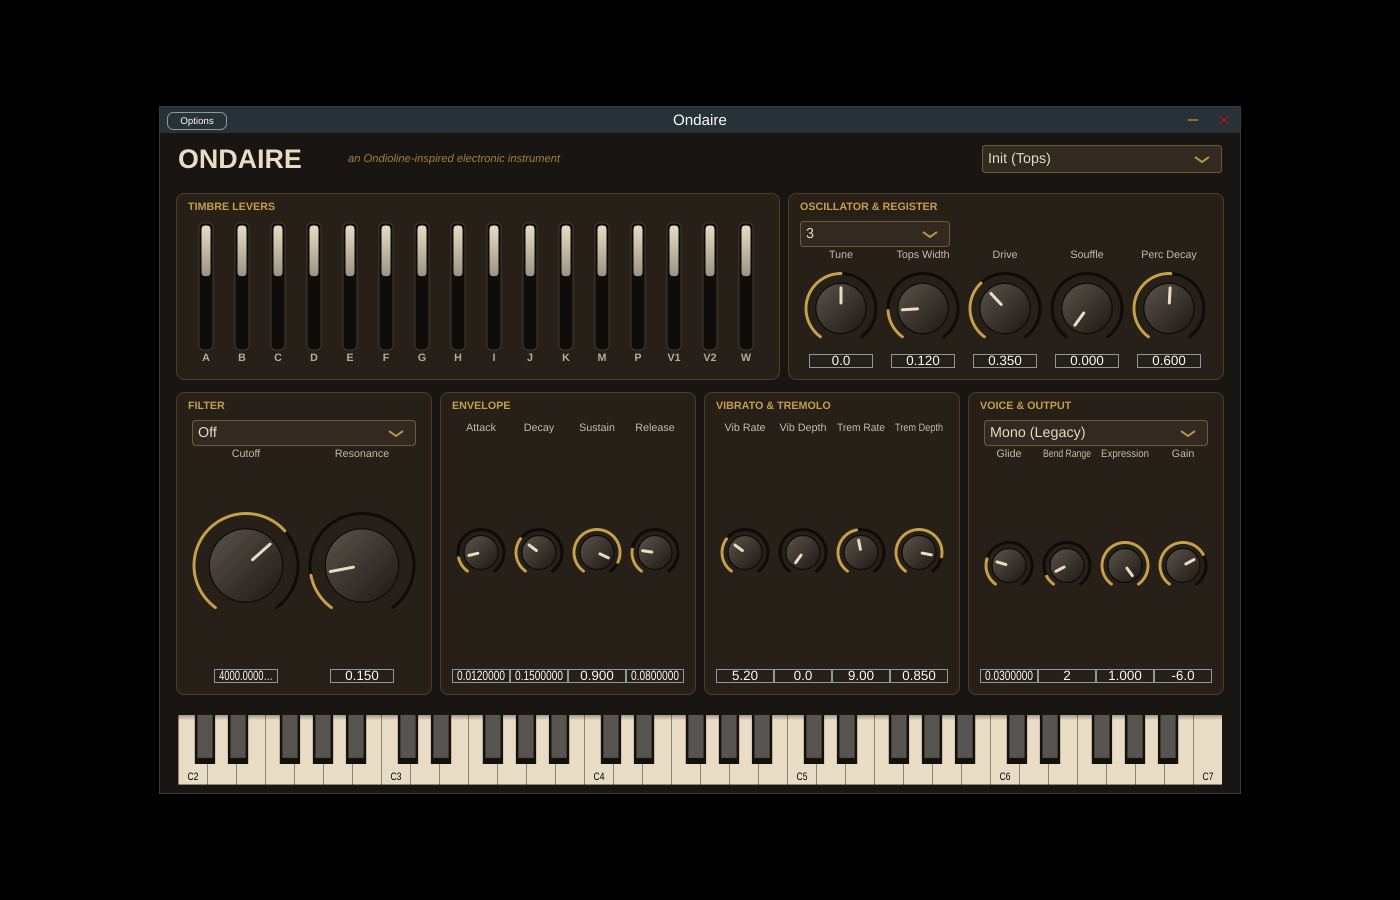
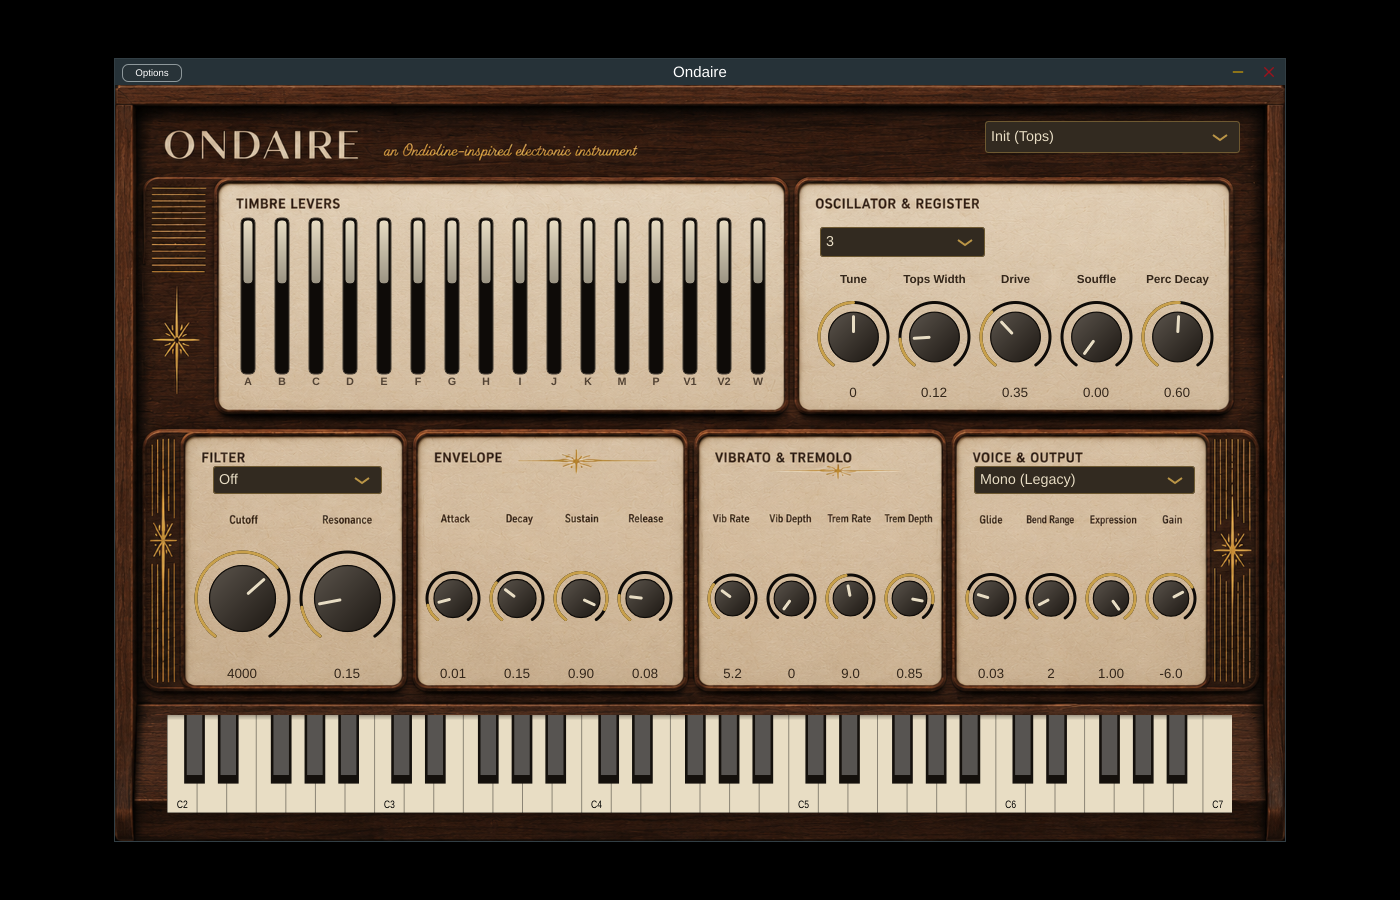
Add cabinet background artwork and coarsen knob value steps
- Embed the walnut-and-cream cabinet artwork as binary data and draw
  it as the editor background; controls are positioned in the
  artwork's native 1560x1008 pixel space and scaled to the window
- Hide per-knob labels where the artwork bakes them in (filter,
  envelope, vibrato/tremolo, voice/output panels); switch labels,
  lever letters and value readouts to dark ink for the cream panels
- Coarsen every continuous parameter's step so dragging lands on
  clean values: 1 ct tune, 0.01 unit knobs, 10 Hz cutoff, 10 ms
  envelope times, 0.1 Hz LFO rates, 0.5 dB gain

Claude-Session: https://claude.ai/code/session_0124hqG1meTYyUSfvjZxQbEC

diff --git a/Source/PluginEditor.cpp b/Source/PluginEditor.cpp
@@ -1,5 +1,6 @@
 #include "PluginEditor.h"
 #include "OndairePresets.h"
+#include "OndaireAssets.h"
 
 namespace p = ondaire::param;
 
@@ -10,13 +11,16 @@ const juce::Colour OndaireLookAndFeel::panelLight { 0xff322a20 };
 const juce::Colour OndaireLookAndFeel::cream      { 0xffe8ddc4 };
 const juce::Colour OndaireLookAndFeel::brass      { 0xffc8a04b };
 const juce::Colour OndaireLookAndFeel::accent     { 0xffb5502e };
+const juce::Colour OndaireLookAndFeel::ink        { 0xff33261a };
 
 OndaireLookAndFeel::OndaireLookAndFeel()
 {
     setColour (juce::ResizableWindow::backgroundColourId, background);
-    setColour (juce::Slider::textBoxTextColourId, cream.withAlpha (0.8f));
+    setColour (juce::Slider::textBoxTextColourId, ink.withAlpha (0.85f));
     setColour (juce::Slider::textBoxOutlineColourId, juce::Colours::transparentBlack);
-    setColour (juce::Label::textColourId, cream);
+    setColour (juce::Slider::textBoxBackgroundColourId, juce::Colours::transparentBlack);
+    setColour (juce::Slider::textBoxHighlightColourId, brass.withAlpha (0.4f));
+    setColour (juce::Label::textColourId, ink);
     setColour (juce::ComboBox::backgroundColourId, panelLight);
     setColour (juce::ComboBox::textColourId, cream);
     setColour (juce::ComboBox::outlineColourId, brass.withAlpha (0.4f));
@@ -104,7 +108,7 @@ void OndaireLookAndFeel::drawToggleButton (juce::Graphics& g, juce::ToggleButton
     g.setColour (juce::Colour (0xff0e0b08));
     g.drawRoundedRectangle (handle, 4.0f, 1.0f);
 
-    g.setColour (on ? brass : cream.withAlpha (0.75f));
+    g.setColour (on ? brass.darker (0.35f) : ink.withAlpha (0.8f));
     g.setFont (juce::Font (juce::FontOptions (12.0f, juce::Font::bold)));
     g.drawText (b.getButtonText(), labelArea, juce::Justification::centred);
 }
@@ -173,9 +177,19 @@ OndaireAudioProcessorEditor::OndaireAudioProcessorEditor (OndaireAudioProcessor&
     keyboard.setOctaveForMiddleC (4);
     addAndMakeVisible (keyboard);
 
+    backgroundImage = juce::ImageCache::getFromMemory (OndaireAssets::background_png,
+                                                       OndaireAssets::background_pngSize);
+
+    // The artwork bakes in the knob labels of the four lower panels; hide the
+    // corresponding component labels so they are not drawn twice.
+    for (auto* k : { &cutoff, &resonance, &attack, &decay, &sustain, &release,
+                     &vibRate, &vibDepth, &tremRate, &tremDepth,
+                     &glide, &pbRange, &expression, &gain })
+        k->label.setVisible (false);
+
     processor.addListener (this);
 
-    setSize (1080, 660);
+    setSize (1170, 756);   // 3/4 of the artwork's native 1560 x 1008
 }
 
 OndaireAudioProcessorEditor::~OndaireAudioProcessorEditor()
@@ -210,13 +224,16 @@ void OndaireAudioProcessorEditor::audioProcessorChanged (juce::AudioProcessor*,
 void OndaireAudioProcessorEditor::addKnob (Knob& k, const char* paramID, const juce::String& text)
 {
     k.slider.setSliderStyle (juce::Slider::RotaryHorizontalVerticalDrag);
-    k.slider.setTextBoxStyle (juce::Slider::TextBoxBelow, false, 64, 14);
+    k.slider.setTextBoxStyle (juce::Slider::TextBoxBelow, false, 64, 15);
+    k.slider.setColour (juce::Slider::textBoxTextColourId, OndaireLookAndFeel::ink);
+    k.slider.setColour (juce::Slider::textBoxOutlineColourId, juce::Colours::transparentBlack);
+    k.slider.setColour (juce::Slider::textBoxBackgroundColourId, juce::Colours::transparentBlack);
     addAndMakeVisible (k.slider);
 
     k.label.setText (text, juce::dontSendNotification);
     k.label.setJustificationType (juce::Justification::centred);
-    k.label.setFont (juce::Font (juce::FontOptions (12.0f)));
-    k.label.setColour (juce::Label::textColourId, OndaireLookAndFeel::cream.withAlpha (0.85f));
+    k.label.setFont (juce::Font (juce::FontOptions (13.0f, juce::Font::bold)));
+    k.label.setColour (juce::Label::textColourId, OndaireLookAndFeel::ink);
     addAndMakeVisible (k.label);
 
     k.attachment = std::make_unique<juce::AudioProcessorValueTreeState::SliderAttachment> (
@@ -250,107 +267,65 @@ void OndaireAudioProcessorEditor::addCombo (juce::ComboBox& box,
 //==============================================================================
 void OndaireAudioProcessorEditor::paint (juce::Graphics& g)
 {
-    g.fillAll (OndaireLookAndFeel::background);
-
-    auto drawSection = [&g] (juce::Rectangle<int> r, const juce::String& title)
-    {
-        if (r.isEmpty())
-            return;
-        auto rf = r.toFloat();
-        g.setColour (OndaireLookAndFeel::panel);
-        g.fillRoundedRectangle (rf, 8.0f);
-        g.setColour (OndaireLookAndFeel::brass.withAlpha (0.25f));
-        g.drawRoundedRectangle (rf.reduced (0.5f), 8.0f, 1.0f);
-        g.setColour (OndaireLookAndFeel::brass);
-        g.setFont (juce::Font (juce::FontOptions (12.0f, juce::Font::bold)));
-        g.drawText (title.toUpperCase(), r.reduced (12, 6).removeFromTop (16),
-                    juce::Justification::centredLeft);
-    };
-
-    drawSection (leverPanel,  "Timbre Levers");
-    drawSection (oscPanel,    "Oscillator & Register");
-    drawSection (filterPanel, "Filter");
-    drawSection (envPanel,    "Envelope");
-    drawSection (modPanel,    "Vibrato & Tremolo");
-    drawSection (outPanel,    "Voice & Output");
-
-    // Wordmark
-    auto header = getLocalBounds().removeFromTop (52).reduced (18, 6);
-    g.setColour (OndaireLookAndFeel::cream);
-    g.setFont (juce::Font (juce::FontOptions (30.0f, juce::Font::bold)));
-    g.drawText ("ONDAIRE", header, juce::Justification::centredLeft);
-    g.setColour (OndaireLookAndFeel::brass.withAlpha (0.8f));
-    g.setFont (juce::Font (juce::FontOptions (12.5f, juce::Font::italic)));
-    g.drawText ("an Ondioline-inspired electronic instrument",
-                header.withTrimmedLeft (170), juce::Justification::centredLeft);
+    if (backgroundImage.isValid())
+        g.drawImage (backgroundImage, getLocalBounds().toFloat());
+    else
+        g.fillAll (OndaireLookAndFeel::background);
 }
 
 void OndaireAudioProcessorEditor::resized()
 {
-    auto area = getLocalBounds();
-
-    auto header = area.removeFromTop (52).reduced (18, 12);
-    presetBox.setBounds (header.removeFromRight (240));
-
-    keyboard.setBounds (area.removeFromBottom (86).reduced (18, 8));
-    keyboard.setKeyWidth ((float) keyboard.getWidth() / 36.0f);
-
-    area.reduce (12, 4);
-    const int gap = 8;
-
-    // Top row: lever bank + oscillator section.
-    auto topRow = area.removeFromTop (juce::jmax (150, area.getHeight() * 38 / 100));
-    leverPanel = topRow.removeFromLeft (topRow.getWidth() * 58 / 100).reduced (gap / 2);
-    oscPanel   = topRow.reduced (gap / 2);
-
-    auto placeLevers = [this] (juce::Rectangle<int> r)
+    // Positions in the artwork's native 1560 x 1008 pixel space.
+    const float sx = (float) getWidth()  / 1560.0f;
+    const float sy = (float) getHeight() / 1008.0f;
+    auto art = [sx, sy] (float x, float y, float w, float h)
     {
-        r = r.reduced (12).withTrimmedTop (16);
+        return juce::Rectangle<float> (x * sx, y * sy, w * sx, h * sy).toNearestInt();
+    };
+
+    presetBox.setBounds (art (1160.0f, 48.0f, 340.0f, 42.0f));
+
+    // Timbre lever bank panel.
+    {
+        auto r = art (155.0f, 175.0f, 730.0f, 235.0f);
         const int w = r.getWidth() / numLevers;
         for (auto& l : levers)
             l.button.setBounds (r.removeFromLeft (w));
-    };
-    placeLevers (leverPanel);
+    }
 
-    // Expects a rectangle already trimmed of its section padding/title.
-    auto placeKnobs = [] (juce::Rectangle<int> r, std::initializer_list<Knob*> knobs)
+    auto placeKnobs = [] (juce::Rectangle<int> r, std::initializer_list<Knob*> knobs,
+                          bool withLabels)
     {
         const int w = r.getWidth() / (int) knobs.size();
         for (auto* k : knobs)
         {
             auto cell = r.removeFromLeft (w);
-            k->label.setBounds (cell.removeFromTop (16));
+            if (withLabels)
+                k->label.setBounds (cell.removeFromTop (20));
             k->slider.setBounds (cell);
         }
     };
 
-    {
-        auto r = oscPanel.reduced (12).withTrimmedTop (16);
-        auto comboRow = r.removeFromTop (26);
-        registerBox.setBounds (comboRow.removeFromLeft (juce::jmin (150, comboRow.getWidth())));
-        placeKnobs (r, { &tune, &topsWidth, &drive, &souffle, &percDecay });
-    }
+    // Oscillator & register panel (artwork panel is blank; we draw labels).
+    registerBox.setBounds (art (940.0f, 190.0f, 220.0f, 40.0f));
+    placeKnobs (art (930.0f, 245.0f, 545.0f, 175.0f),
+                { &tune, &topsWidth, &drive, &souffle, &percDecay }, true);
 
-    // Bottom row: filter / envelope / modulation / voice+output.
-    auto bottomRow = area.reduced (0, gap / 2);
-    const int colW = bottomRow.getWidth() / 4;
-    filterPanel = bottomRow.removeFromLeft (colW).reduced (gap / 2);
-    envPanel    = bottomRow.removeFromLeft (colW).reduced (gap / 2);
-    modPanel    = bottomRow.removeFromLeft (colW).reduced (gap / 2);
-    outPanel    = bottomRow.reduced (gap / 2);
+    // Lower panels: the artwork provides the knob labels at y ~578, so the
+    // sliders sit directly beneath them.
+    filterBox.setBounds (art (130.0f, 508.0f, 225.0f, 38.0f));
+    placeKnobs (art (100.0f, 595.0f, 280.0f, 200.0f), { &cutoff, &resonance }, false);
 
-    {
-        auto r = filterPanel.reduced (12).withTrimmedTop (16);
-        filterBox.setBounds (r.removeFromTop (26).reduced (4, 0));
-        placeKnobs (r, { &cutoff, &resonance });
-    }
-    placeKnobs (envPanel.reduced (12).withTrimmedTop (16),
-                { &attack, &decay, &sustain, &release });
-    placeKnobs (modPanel.reduced (12).withTrimmedTop (16),
-                { &vibRate, &vibDepth, &tremRate, &tremDepth });
-    {
-        auto r = outPanel.reduced (12).withTrimmedTop (16);
-        modeBox.setBounds (r.removeFromTop (26).reduced (4, 0));
-        placeKnobs (r, { &glide, &pbRange, &expression, &gain });
-    }
+    placeKnobs (art (408.0f, 595.0f, 345.0f, 200.0f),
+                { &attack, &decay, &sustain, &release }, false);
+
+    placeKnobs (art (784.0f, 595.0f, 315.0f, 200.0f),
+                { &vibRate, &vibDepth, &tremRate, &tremDepth }, false);
+
+    modeBox.setBounds (art (1145.0f, 508.0f, 295.0f, 38.0f));
+    placeKnobs (art (1128.0f, 595.0f, 320.0f, 200.0f),
+                { &glide, &pbRange, &expression, &gain }, false);
+
+    keyboard.setBounds (art (70.0f, 840.0f, 1420.0f, 130.0f));
+    keyboard.setKeyWidth ((float) keyboard.getWidth() / 36.0f);
 }

diff --git a/Source/OndaireParams.h b/Source/OndaireParams.h
@@ -89,12 +89,12 @@ namespace ondaire::param
 
         p.push_back (std::make_unique<AudioParameterFloat> (
             ParameterID { tune, 1 }, "Tune",
-            NormalisableRange<float> (-100.0f, 100.0f, 0.1f), 0.0f,
+            NormalisableRange<float> (-100.0f, 100.0f, 1.0f), 0.0f,
             AudioParameterFloatAttributes().withLabel ("ct")));
 
         p.push_back (std::make_unique<AudioParameterFloat> (
             ParameterID { pulseWidth, 1 }, "Tops Width",
-            NormalisableRange<float> (0.05f, 0.45f, 0.001f), 0.12f));
+            NormalisableRange<float> (0.05f, 0.45f, 0.01f), 0.12f));
 
         boolParam (leverA,  "Lever A (No Drive)",       false);
         boolParam (leverB,  "Lever B (Square Wave)",    false);
@@ -115,16 +115,16 @@ namespace ondaire::param
 
         p.push_back (std::make_unique<AudioParameterFloat> (
             ParameterID { percDecay, 1 }, "Percussion Decay",
-            NormalisableRange<float> (0.05f, 3.0f, 0.001f, 0.4f), 0.6f,
+            NormalisableRange<float> (0.05f, 3.0f, 0.05f, 0.4f), 0.6f,
             AudioParameterFloatAttributes().withLabel ("s")));
 
         p.push_back (std::make_unique<AudioParameterFloat> (
             ParameterID { drive, 1 }, "Pentode Drive",
-            NormalisableRange<float> (0.0f, 1.0f, 0.001f), 0.35f));
+            NormalisableRange<float> (0.0f, 1.0f, 0.01f), 0.35f));
 
         p.push_back (std::make_unique<AudioParameterFloat> (
             ParameterID { noise, 1 }, "Souffle (Breath)",
-            NormalisableRange<float> (0.0f, 1.0f, 0.001f), 0.0f));
+            NormalisableRange<float> (0.0f, 1.0f, 0.01f), 0.0f));
 
         // Modern filter --------------------------------------------------------
         p.push_back (std::make_unique<AudioParameterChoice> (
@@ -133,31 +133,31 @@ namespace ondaire::param
 
         p.push_back (std::make_unique<AudioParameterFloat> (
             ParameterID { cutoff, 1 }, "Filter Cutoff",
-            NormalisableRange<float> (20.0f, 20000.0f, 1.0f, 0.25f), 4000.0f,
+            NormalisableRange<float> (20.0f, 20000.0f, 10.0f, 0.25f), 4000.0f,
             AudioParameterFloatAttributes().withLabel ("Hz")));
 
         p.push_back (std::make_unique<AudioParameterFloat> (
             ParameterID { resonance, 1 }, "Filter Resonance",
-            NormalisableRange<float> (0.0f, 1.0f, 0.001f), 0.15f));
+            NormalisableRange<float> (0.0f, 1.0f, 0.01f), 0.15f));
 
         // Envelope ---------------------------------------------------------
         p.push_back (std::make_unique<AudioParameterFloat> (
             ParameterID { attack, 1 }, "Attack",
-            NormalisableRange<float> (0.001f, 3.0f, 0.001f, 0.35f), 0.012f,
+            NormalisableRange<float> (0.001f, 3.0f, 0.01f, 0.35f), 0.012f,
             AudioParameterFloatAttributes().withLabel ("s")));
 
         p.push_back (std::make_unique<AudioParameterFloat> (
             ParameterID { decay, 1 }, "Decay",
-            NormalisableRange<float> (0.001f, 4.0f, 0.001f, 0.35f), 0.15f,
+            NormalisableRange<float> (0.001f, 4.0f, 0.01f, 0.35f), 0.15f,
             AudioParameterFloatAttributes().withLabel ("s")));
 
         p.push_back (std::make_unique<AudioParameterFloat> (
             ParameterID { sustain, 1 }, "Sustain",
-            NormalisableRange<float> (0.0f, 1.0f, 0.001f), 0.9f));
+            NormalisableRange<float> (0.0f, 1.0f, 0.01f), 0.9f));
 
         p.push_back (std::make_unique<AudioParameterFloat> (
             ParameterID { release, 1 }, "Release",
-            NormalisableRange<float> (0.005f, 6.0f, 0.001f, 0.35f), 0.08f,
+            NormalisableRange<float> (0.005f, 6.0f, 0.01f, 0.35f), 0.08f,
             AudioParameterFloatAttributes().withLabel ("s")));
 
         // Voicing ------------------------------------------------------------
@@ -167,7 +167,7 @@ namespace ondaire::param
 
         p.push_back (std::make_unique<AudioParameterFloat> (
             ParameterID { glide, 1 }, "Glide",
-            NormalisableRange<float> (0.0f, 1.0f, 0.001f, 0.4f), 0.03f,
+            NormalisableRange<float> (0.0f, 1.0f, 0.01f, 0.4f), 0.03f,
             AudioParameterFloatAttributes().withLabel ("s")));
 
         p.push_back (std::make_unique<AudioParameterInt> (
@@ -177,31 +177,31 @@ namespace ondaire::param
         // Modulation --------------------------------------------------------
         p.push_back (std::make_unique<AudioParameterFloat> (
             ParameterID { vibRate, 1 }, "Vibrato Rate",
-            NormalisableRange<float> (3.0f, 10.0f, 0.01f), 5.2f,
+            NormalisableRange<float> (3.0f, 10.0f, 0.1f), 5.2f,
             AudioParameterFloatAttributes().withLabel ("Hz")));
 
         p.push_back (std::make_unique<AudioParameterFloat> (
             ParameterID { vibDepth, 1 }, "Vibrato Depth",
-            NormalisableRange<float> (0.0f, 100.0f, 0.1f), 0.0f,
+            NormalisableRange<float> (0.0f, 100.0f, 1.0f), 0.0f,
             AudioParameterFloatAttributes().withLabel ("ct")));
 
         p.push_back (std::make_unique<AudioParameterFloat> (
             ParameterID { tremRate, 1 }, "Tremolo Rate",
-            NormalisableRange<float> (3.0f, 16.0f, 0.01f), 9.0f,
+            NormalisableRange<float> (3.0f, 16.0f, 0.1f), 9.0f,
             AudioParameterFloatAttributes().withLabel ("Hz")));
 
         p.push_back (std::make_unique<AudioParameterFloat> (
             ParameterID { tremDepth, 1 }, "Tremolo Depth",
-            NormalisableRange<float> (0.0f, 1.0f, 0.001f), 0.85f));
+            NormalisableRange<float> (0.0f, 1.0f, 0.01f), 0.85f));
 
         // Output ----------------------------------------------------------------
         p.push_back (std::make_unique<AudioParameterFloat> (
             ParameterID { expression, 1 }, "Expression (Knee Lever)",
-            NormalisableRange<float> (0.0f, 1.0f, 0.001f), 1.0f));
+            NormalisableRange<float> (0.0f, 1.0f, 0.01f), 1.0f));
 
         p.push_back (std::make_unique<AudioParameterFloat> (
             ParameterID { gain, 1 }, "Output Gain",
-            NormalisableRange<float> (-36.0f, 6.0f, 0.1f), -6.0f,
+            NormalisableRange<float> (-36.0f, 6.0f, 0.5f), -6.0f,
             AudioParameterFloatAttributes().withLabel ("dB")));
 
         return { p.begin(), p.end() };

diff --git a/Source/PluginEditor.h b/Source/PluginEditor.h
@@ -18,7 +18,7 @@ public:
                            bool shouldDrawButtonAsHighlighted,
                            bool shouldDrawButtonAsDown) override;
 
-    static const juce::Colour background, panel, panelLight, cream, brass, accent;
+    static const juce::Colour background, panel, panelLight, cream, brass, accent, ink;
 };
 
 //==============================================================================
@@ -79,7 +79,9 @@ private:
 
     juce::MidiKeyboardComponent keyboard;
 
-    juce::Rectangle<int> leverPanel, oscPanel, filterPanel, envPanel, modPanel, outPanel;
+    // The cabinet artwork. All control positions are expressed in its native
+    // 1560 x 1008 pixel space and scaled to the editor bounds.
+    juce::Image backgroundImage;
 
     JUCE_DECLARE_NON_COPYABLE_WITH_LEAK_DETECTOR (OndaireAudioProcessorEditor)
 };
